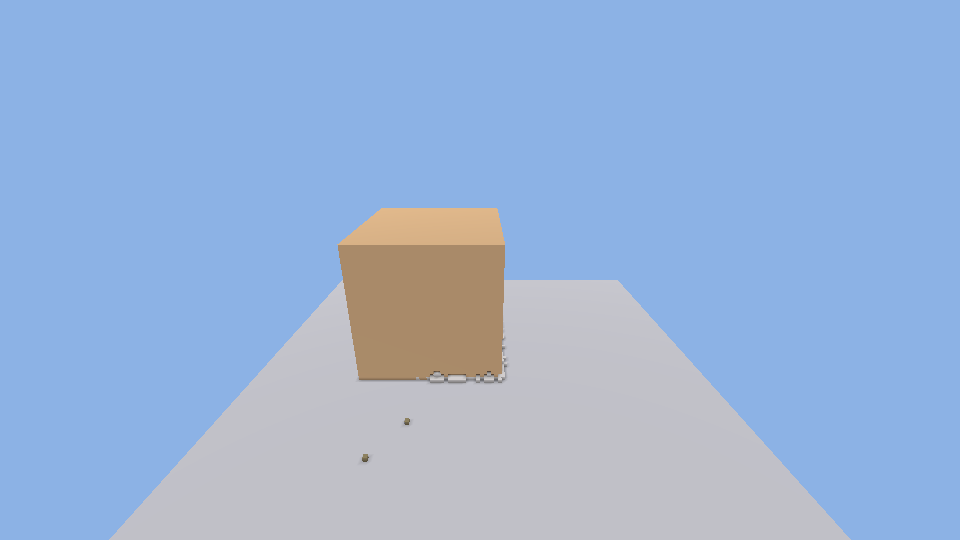
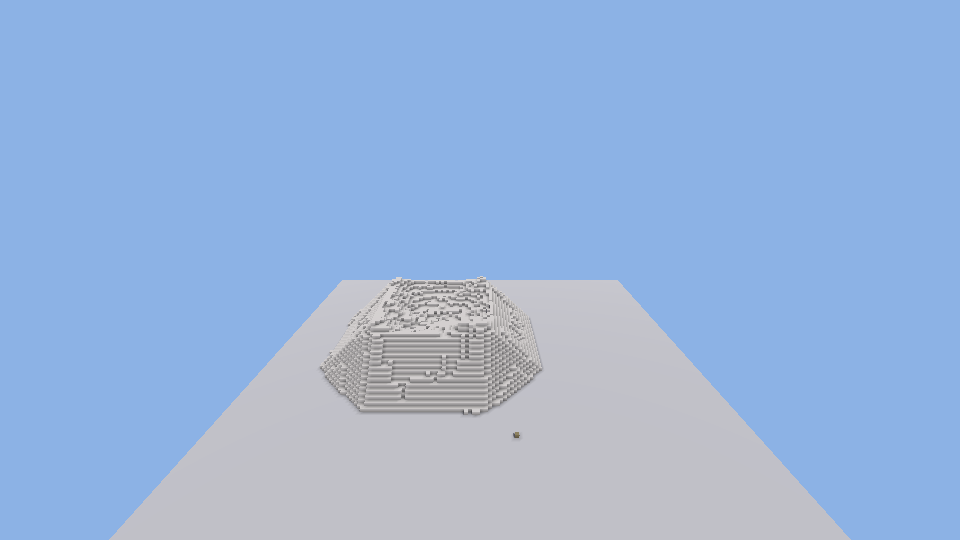
P5 v4: Noita-model data-driven kernel with reactions and fire
Materials table with Noita attribute names, packed 4-byte cells, density
lookup table, reactions (lava+water, fire+water, lava ignites), direct fire
spread between burnable cells, lifetime. Benchmarks and fire/lava
filmstrips in the README. ADR 0004 records 0.5 m voxels and textured look.

Changed region(s): [[0.3125, 0.3852, 0.5625, 0.7704]]

diff --git a/prototypes/p5-sim-spike/README.md b/prototypes/p5-sim-spike/README.md
@@ -94,6 +94,43 @@ seconds and the last result to land is often stale.
 Decision: push through `VoxelTool.paste`. Keep the hash desync check and
 the unsupported-material query as permanent debug tools.
 
+## D. v4: the Falling Everything model, data-driven (Brent's direction)
+
+The kernel was rewritten around Noita's model (`docs/design/material-simulation.md`):
+materials are rows in a table with Noita's attribute names (`cell_type`,
+`liquid_sand`, `density`, `liquid_flow_speed`, `gas_*_speed`, `lifetime`,
+`burnable`, `fire_hp`, `autoignition_temperature`, `temperature_of_fire`,
+`on_fire_*`...), each voxel carries `{material, flags, aux}` packed in 4
+bytes, and a reaction table (`input_cell1/2 -> output_cell1/2`, probability)
+drives chemistry. `materials.gd` defines stone, sand, water, steam, oil,
+lava, wood, fire, smoke, ash and four reactions (lava+water → stone+steam,
+fire+water → air+steam, lava ignites oil and wood).
+
+| Scenario (128³, 12 threads) | v3 hard-coded | v4 first | v4 packed cells + LUTs |
+|---|---|---|---|
+| Sand column | 0.67 ms | 1.57 ms | **1.05 ms** |
+| Water release | 0.89 ms | 2.54 ms | **1.95 ms** |
+| Worst case 30 % loose sand | 1.72 ms | 3.12 ms | **2.48 ms** |
+| Wood house + oil pool on fire | – | 0.46 ms | **0.37 ms** |
+| Lava block into a lake | – | 2.55 ms | **1.99 ms** |
+| Settled, idle | 0.001 ms | 0.001 ms | 0.001 ms |
+
+Generality costs ~1.5× over the hard-coded rules (per-cell table lookups,
+per-cell RNG, 4-byte cells). Packing the three per-voxel arrays into one
+struct and replacing the density comparison with a 256×256 lookup won back
+a third. Further headroom if ever needed: SoA by chunk, SIMD column scans,
+chunk-local material cache. Not worth it now.
+
+Filmstrips: `out/strip_lava_close.png` (lava hits the lake, stone crust and
+steam cloud form), `out/strip_fire_v4d.png` (oil pool burns, fire spreads
+through the wooden house, ash remains). First fire version did not spread
+between burnable cells (only flame cells could ignite, and they drift away);
+Noita-style direct neighbour ignition fixed it. Spread rate needs tuning.
+
+Push-path cost scales with churn: the lava scene pushes 92 chunks per frame
+at 60 Hz (a whole lake reacting) and averages 21 ms/frame; at 30 Hz it
+halves. Simulation bubbles, not world size, must bound this.
+
 ## Measured answers
 
 1. **Native simulation is fast enough with a large margin.** A 2 M-voxel
